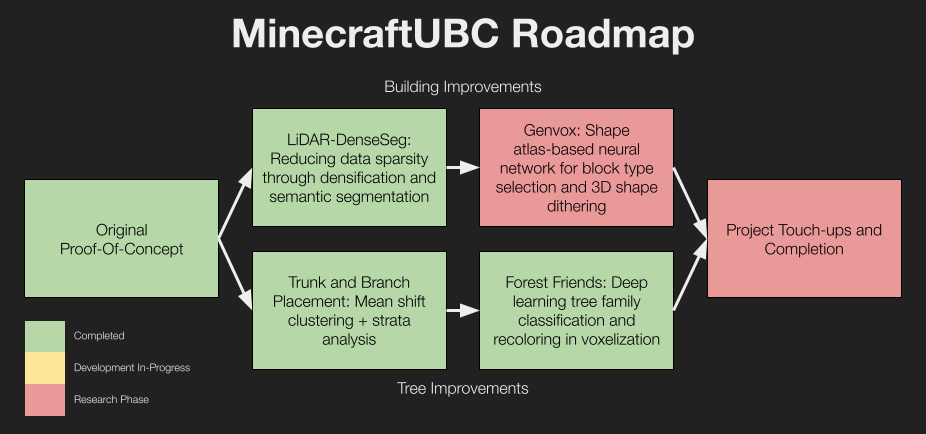
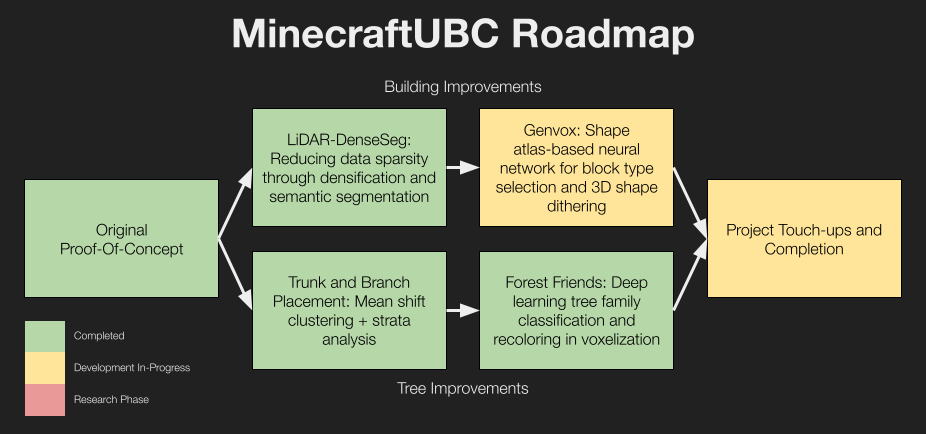
Update README and roadmap

Changed region(s): [[0.7559, 0.3894, 0.9978, 0.6889], [0.514, 0.2396, 0.7257, 0.5392]]

diff --git a/README.md b/README.md
@@ -2,6 +2,8 @@
 
 The UBC Minecraft Project is a project that aims to recreate the UBC Vancouver Campus inside a Minecraft world, in a 1:1 scale.
 
+A demonstration of this project was presented at CVPR 2024 in Seattle, receiving an [Honorable Mention for Best Demo](https://www.computer.org/press-room/cvpr-2024-cvpr-2024-breaks-paper-and-attendance-records).
+
 It's built by transforming LiDAR data, operational geospatial data, and various reference imagery through surface reconstruction, data processing, and deep learning algorithms. See the [CVPR Demo Poster](https://github.com/ashtanmistal/minecraftUBC/blob/master/MinecraftUBC-Poster.pdf) to learn more!
 
 **Note: This project uses submodules. If you want to clone the deep learning modules and related subprojects, please clone with `git clone --recurse-submodules https://github.com/ashtanmistal/minecraftUBC.git`** If you just want to download the world, there's no need to clone the submodules.
